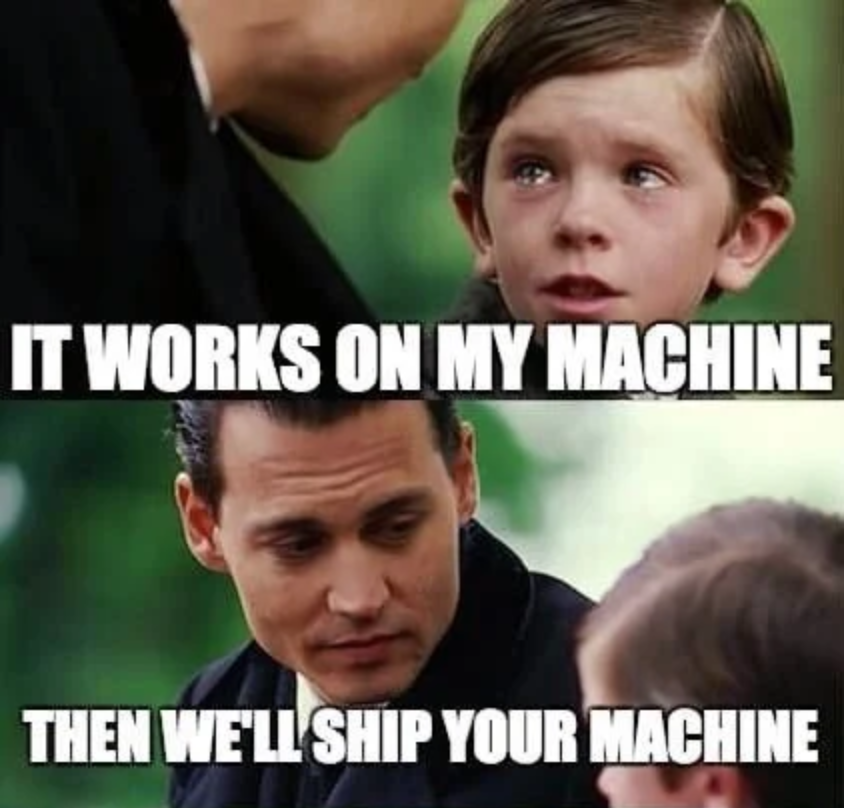
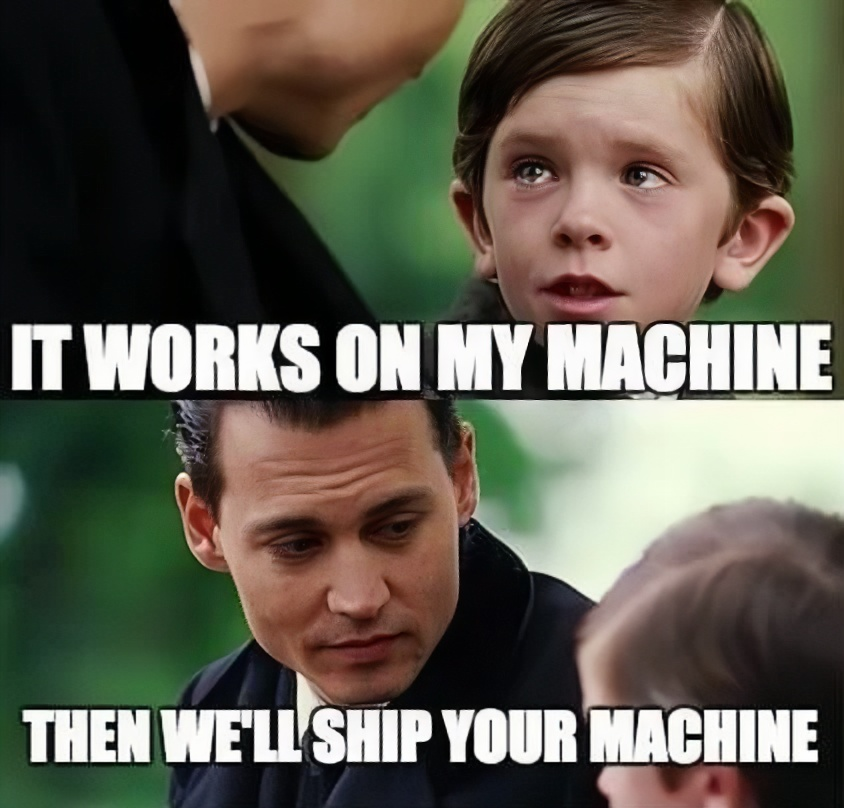
Repository major updates

diff --git a/README.md b/README.md
@@ -1,1 +1,1 @@
-<p align="center"><img src="https://github.com/Mihail-Larionow/cloud_programming/blob/main/stuff/docker-meme.PNG"/></p>
+<p align="center"><img src="https://github.com/Mihail-Larionow/cloud_programming/blob/main/stuff/docker-meme.PNG" width=420/></p>
